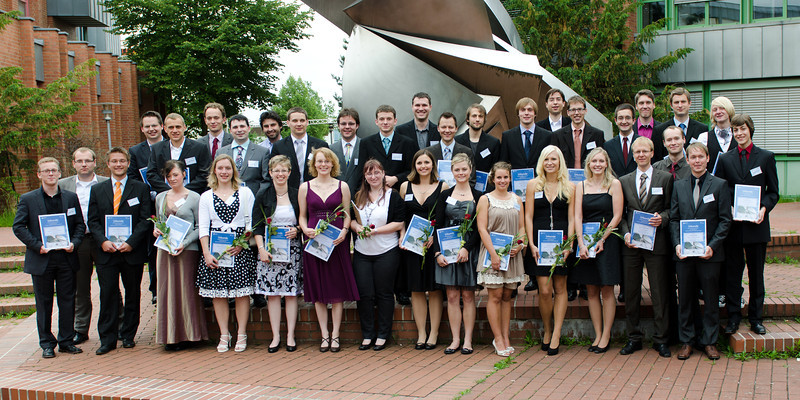
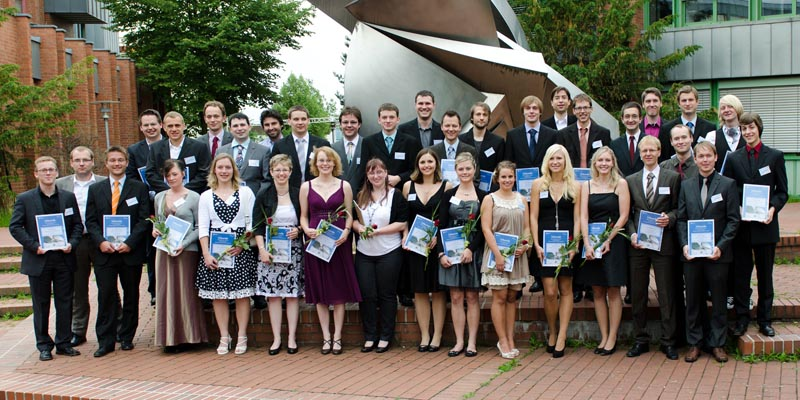
updated images

diff --git a/README.php b/README.php
@@ -4,8 +4,8 @@
 #######                                             #######
 #######          README zur AluMPI-Homepage         #######
 #######                                             #######
-#######                 Version 0.2                 #######
-#######                 21.01.2016                  #######
+#######                 Version 0.3                 #######
+#######                 21.03.2016                  #######
 #######                                             #######
 ###########################################################
 
@@ -25,10 +25,10 @@
 	2.2 Aufbau einer Seite
 
 3. Übliche Arbeitsschritte
-	3.1 Seiteninhalt verändern
-	3.2 Eine neue Seite anlegen
-	3.3 Eine Seite löschen
-	3.4 Eine Seite in den Mitgliederbereich aufnehmen
+	3.1 Den Inhalt einer Unterseite ändern
+	3.2 Eine neue Unterseite anlegen
+	3.3 Eine Unterseite löschen
+	3.4 Eine Unterseite intern schalten
 	3.5 ?
 	
 4. Hinweise zu Implementierungsdetails
@@ -50,7 +50,8 @@
 ------------------------------------------------
 
 
-- Bei Veröffentlichung die DB anpassen!
+- Seite auf HTTPS umstellen
+- Admin-Funktionalitäten implementieren
 - Was ist die Usergruppe in der DB?
 
 
@@ -58,11 +59,12 @@
 	0.2 Optional
 ------------------------------------------------
 
+- Absolventenbilder klein/gross: 07, 08, 09, 14_1, 14_2
 - Registrierung von Fördermitgliedern
 - Mitgliedsbestätigung generieren
 - Foto-Upload in Absolventenfeier-Anmeldeformular?
 - Arbeitgeber angeben
-- Absolventennetzwerk
+- -> Absolventennetzwerk
 
 
 
@@ -87,7 +89,6 @@ Webservers unter /var/www/html/ .
 Sendmail ist zum Versand der E-Mails installiert, MySQL ist als Datenbank-Server installiert, wird aber nur zu Testzwecken genutzt.
 Die eigentliche verwendete Datenbank liegt NICHT auf dem eigenen Webserver, sondern ist auch weiterhin unter Verwaltung des IT-Servicezentrums 
 der Uni Bayreuth, s.d. die Verantwortung für Datensicherung, Backups etc. nicht bei uns liegt.
-
 Die Datenbank ist unter mysql.rz.uni-bayreuth.de erreichbar, Account-Name ist "alumpi", das Passwort ist dem Vorstand bekannt.
 
 
@@ -101,15 +102,55 @@ Die Datenbank ist unter mysql.rz.uni-bayreuth.de erreichbar, Account-Name ist "a
 	2. Struktur der Homepage
 ################################################
 
-	0.1 Ordnerstruktur
+	2.1 Ordnerstruktur
 ------------------------------------------------
 
 
+Direkt im Hauptordner der Homepage liegen lediglich zwei Dateien, diese README, sowie eine index.php, die auf die Startseite weiterleitet.
+In diesem Hauptordner liegen zwei Arten von Ordnern: Seiten-Ordner und strukturelle Ordner.
+Seiten-Ordner enthalten jeweils eine Unterseite der Homepage. Der Name des Seiten-Ordnerns wird bei der Darstellung der entsprechenden Unterseite
+in der URL im Browser angezeigt und ist somit bewusst zu wählen. Näheres zum Inhalt dieser Ordner unter Punkt 2.2
+Strukturelle Order beginnen jeweils mit einem Unterstrich und enthalten diversen Inhalt:
+- _css enthält sämtliche verwendete CSS-Dateien
+- _images_content enthält sämtliche Bilder, die im Inhaltsbereich des Homepage Verwendung finden
+- _images_layout enthält alle Bilder, die im Seitenlayout selbst verwendet werden
+- _includes_functionality enthält diverse PHP-Dateien, die Funktionalitäten bereitstellen, die auf mehr als einer Unterseite verwendet werden.
+- _includes_layout enthält alle PHP-Dateien, die zum Zusammenbau der Seite benötigt werden
+
+Neben den Dateien und Ordnern im Hauptordner der Homepage wird zum Aufbau der Datenbankverbindung eine Datei "db_config.php" benötigt, die außerhalb
+des zugänglichen Webserver-Verzeichnisses liegt, um die dort enthaltenen Daten wie das DB-Passwort zu schützen.
+Diese muss vom Hauptordner aus unter dem Pfad "../../config_files/db_config.php" zu finden sein, also in einem separaten Ordner "config-files" liegen.
 
 
-	0.2 Aufbau einer Seite
+
+
+	2.2 Aufbau einer Seite
 ------------------------------------------------
 
+
+Jeder Seiten-Ordner enthält mindestens zwei PHP-Dateien: index.php und content.php
+Die Datei index.php ist dabei die Datei, die dem Nutzer im Browser angezeigt wird. Der PHP-Code in dieser Datei baut also die gesamte ausgelieferte Seite
+zusammen. Dazu werden in dieser Datei diverse Bestandteile der Seite aus "_includes_layout" (wie z.B. der Header, der Footer und das Navigationsmenü) geladen,
+außerdem wird der Seiteninhalt aus der content.php eingefügt.
+Die Datei content.php enthält den eigentlichen Seiteninhalt der entsprechenden Unterseite. Sie bindet dabei ggf. Inhalt aus weiteren PHP-Dateien ein, dies 
+kann statisch oder an bestimmte Bedingungen geknüpft geschehen.
+
+Eine gesamte, zusammengebaute Unterseite hat damit folgende Struktur:
+
+------------
+<!DOCTYPE html>
+<html>
+	[htmlheader.php]
+	<body>
+		[header.php]
+		<section id="main">
+			[navigation.php]
+			[content.php] (seitenspezifisch)
+		</section>
+		[footer.php]
+	</body>
+</html>
+------------
 
 
 
@@ -118,7 +159,26 @@ Die Datenbank ist unter mysql.rz.uni-bayreuth.de erreichbar, Account-Name ist "a
 	3. Übliche Arbeitsschritte
 ################################################
 
+	3.1 Den Inhalt einer Unterseite ändern
+------------------------------------------------
 
+
+
+	3.2 Eine neue Unterseite anlegen
+------------------------------------------------
+
+
+
+
+	3.3 Eine Unterseite löschen
+------------------------------------------------
+
+
+
+
+
+	3.4 Eine Unterseite intern schalten
+------------------------------------------------
 
 
 

diff --git a/bildergalerie/content.php b/bildergalerie/content.php
@@ -34,12 +34,12 @@ if(!defined('AccessConstant')) {die('Direct access not permitted');}
 					
 
 					<!-- thumbnail image wrapped in a link -->
-					<a href="#img1">
+					<a href="#absolventenfeier15absolventen">
 						<img class="absolventenbild" src="../_images_content/absolventenfeier15absolventen.jpg" alt="Gruppenbild Absolventen 2015">
 					</a>
 					<!-- lightbox container hidden with CSS -->
-					<a href="#_" class="lightbox" id="img1">
-						<img src="../_images_content/absolventenfeier15absolventen.jpg" alt="Gruppenbild Absolventen 2015">
+					<a href="#_" class="lightbox" id="absolventenfeier15absolventen">
+						<img src="../_images_content/absolventenfeier15absolventen_gross.jpg" alt="Gruppenbild Absolventen 2015">
 					</a>
 
 			
@@ -56,20 +56,20 @@ if(!defined('AccessConstant')) {die('Direct access not permitted');}
 					
 					
 					<!-- thumbnail image wrapped in a link -->
-					<a href="#img2">
+					<a href="#absolventenfeier14absolventen1">
 						<img class="absolventenbild_links" src="../_images_content/absolventenfeier14absolventen1.jpg" alt="Gruppenbild 1 Absolventen 2014">
 					</a>
 					<!-- lightbox container hidden with CSS -->
-					<a href="#_" class="lightbox" id="img2">
+					<a href="#_" class="lightbox" id="absolventenfeier14absolventen1">
 					  <img src="../_images_content/absolventenfeier14absolventen1.jpg" alt="Gruppenbild 1 Absolventen 2014">
 					</a>
 					
 					<!-- thumbnail image wrapped in a link -->
-					<a href="#img3">
+					<a href="#absolventenfeier14absolventen2">
 						<img class="absolventenbild_rechts" src="../_images_content/absolventenfeier14absolventen2.jpg" alt="Gruppenbild 2 Absolventen 2014">
 					</a>
 					<!-- lightbox container hidden with CSS -->
-					<a href="#_" class="lightbox" id="img3">
+					<a href="#_" class="lightbox" id="absolventenfeier14absolventen2">
 					  <img src="../_images_content/absolventenfeier14absolventen2.jpg" alt="Gruppenbild 2 Absolventen 2014">
 					</a>
 					
@@ -86,12 +86,12 @@ if(!defined('AccessConstant')) {die('Direct access not permitted');}
 					<h3>Absolventenfeier 2012</h3>
 					
 					<!-- thumbnail image wrapped in a link -->
-					<a href="#img4">
+					<a href="#absolventenfeier12absolventen">
 						<img class="absolventenbild" src="../_images_content/absolventenfeier12absolventen.jpg" alt="Gruppenbild Absolventen 2012">
 					</a>
 					<!-- lightbox container hidden with CSS -->
-					<a href="#_" class="lightbox" id="img4">
-						<img src="../_images_content/absolventenfeier12absolventen.jpg" alt="Gruppenbild Absolventen 2012">
+					<a href="#_" class="lightbox" id="absolventenfeier12absolventen">
+						<img src="../_images_content/absolventenfeier12absolventen_gross.jpg" alt="Gruppenbild Absolventen 2012">
 					</a>
 				
 				
@@ -108,12 +108,12 @@ if(!defined('AccessConstant')) {die('Direct access not permitted');}
 					
 					
 					<!-- thumbnail image wrapped in a link -->
-					<a href="#img5">
+					<a href="#absolventenfeier11absolventen">
 						<img class="absolventenbild" src="../_images_content/absolventenfeier11absolventen.jpg" alt="Gruppenbild Absolventen 2011">
 					</a>
 					<!-- lightbox container hidden with CSS -->
-					<a href="#_" class="lightbox" id="img5">
-						<img src="../_images_content/absolventenfeier11absolventen.jpg" alt="Gruppenbild Absolventen 2011">
+					<a href="#_" class="lightbox" id="absolventenfeier11absolventen">
+						<img src="../_images_content/absolventenfeier11absolventen_gross.jpg" alt="Gruppenbild Absolventen 2011">
 					</a>
 					
 					
@@ -131,12 +131,12 @@ if(!defined('AccessConstant')) {die('Direct access not permitted');}
 					<h3>Absolventenfeier 2010</h3>
 					
 					<!-- thumbnail image wrapped in a link -->
-					<a href="#img6">
+					<a href="#absolventenfeier10absolventen">
 						<img class="absolventenbild" src="../_images_content/absolventenfeier10absolventen.jpg" alt="Gruppenbild Absolventen 2010">
 					</a>
 					<!-- lightbox container hidden with CSS -->
-					<a href="#_" class="lightbox" id="img6">
-						<img src="../_images_content/absolventenfeier10absolventen.jpg" alt="Gruppenbild Absolventen 2010">
+					<a href="#_" class="lightbox" id="absolventenfeier10absolventen">
+						<img src="../_images_content/absolventenfeier10absolventen_gross.jpg" alt="Gruppenbild Absolventen 2010">
 					</a>
 				
 

diff --git a/absolventengalerie/content.php b/absolventengalerie/content.php
@@ -35,7 +35,7 @@ if(!defined('AccessConstant')) {die('Direct access not permitted');}
 					</a>
 					<!-- lightbox container hidden with CSS -->
 					<a href="#_" class="lightbox" id="absolventenfeier15absolventen">
-						<img src="../_images_content/absolventenfeier15absolventen.jpg" alt="Gruppenbild Absolventen 2015">
+						<img src="../_images_content/absolventenfeier15absolventen_gross.jpg" alt="Gruppenbild Absolventen 2015">
 					</a>
 				</article>
 				
@@ -78,7 +78,7 @@ if(!defined('AccessConstant')) {die('Direct access not permitted');}
 					</a>
 					<!-- lightbox container hidden with CSS -->
 					<a href="#_" class="lightbox" id="absolventenfeier12absolventen">
-						<img src="../_images_content/absolventenfeier12absolventen.jpg" alt="Gruppenbild Absolventen 2012">
+						<img src="../_images_content/absolventenfeier12absolventen_gross.jpg" alt="Gruppenbild Absolventen 2012">
 					</a>
 				</article>
 				
@@ -93,7 +93,7 @@ if(!defined('AccessConstant')) {die('Direct access not permitted');}
 					</a>
 					<!-- lightbox container hidden with CSS -->
 					<a href="#_" class="lightbox" id="absolventenfeier11absolventen">
-						<img src="../_images_content/absolventenfeier11absolventen.jpg" alt="Gruppenbild Absolventen 2011">
+						<img src="../_images_content/absolventenfeier11absolventen_gross.jpg" alt="Gruppenbild Absolventen 2011">
 					</a>
 				</article>
 				
@@ -108,7 +108,7 @@ if(!defined('AccessConstant')) {die('Direct access not permitted');}
 					</a>
 					<!-- lightbox container hidden with CSS -->
 					<a href="#_" class="lightbox" id="absolventenfeier10absolventen">
-						<img src="../_images_content/absolventenfeier10absolventen.jpg" alt="Gruppenbild Absolventen 2010">
+						<img src="../_images_content/absolventenfeier10absolventen_gross.jpg" alt="Gruppenbild Absolventen 2010">
 					</a>
 				</article>
 				
